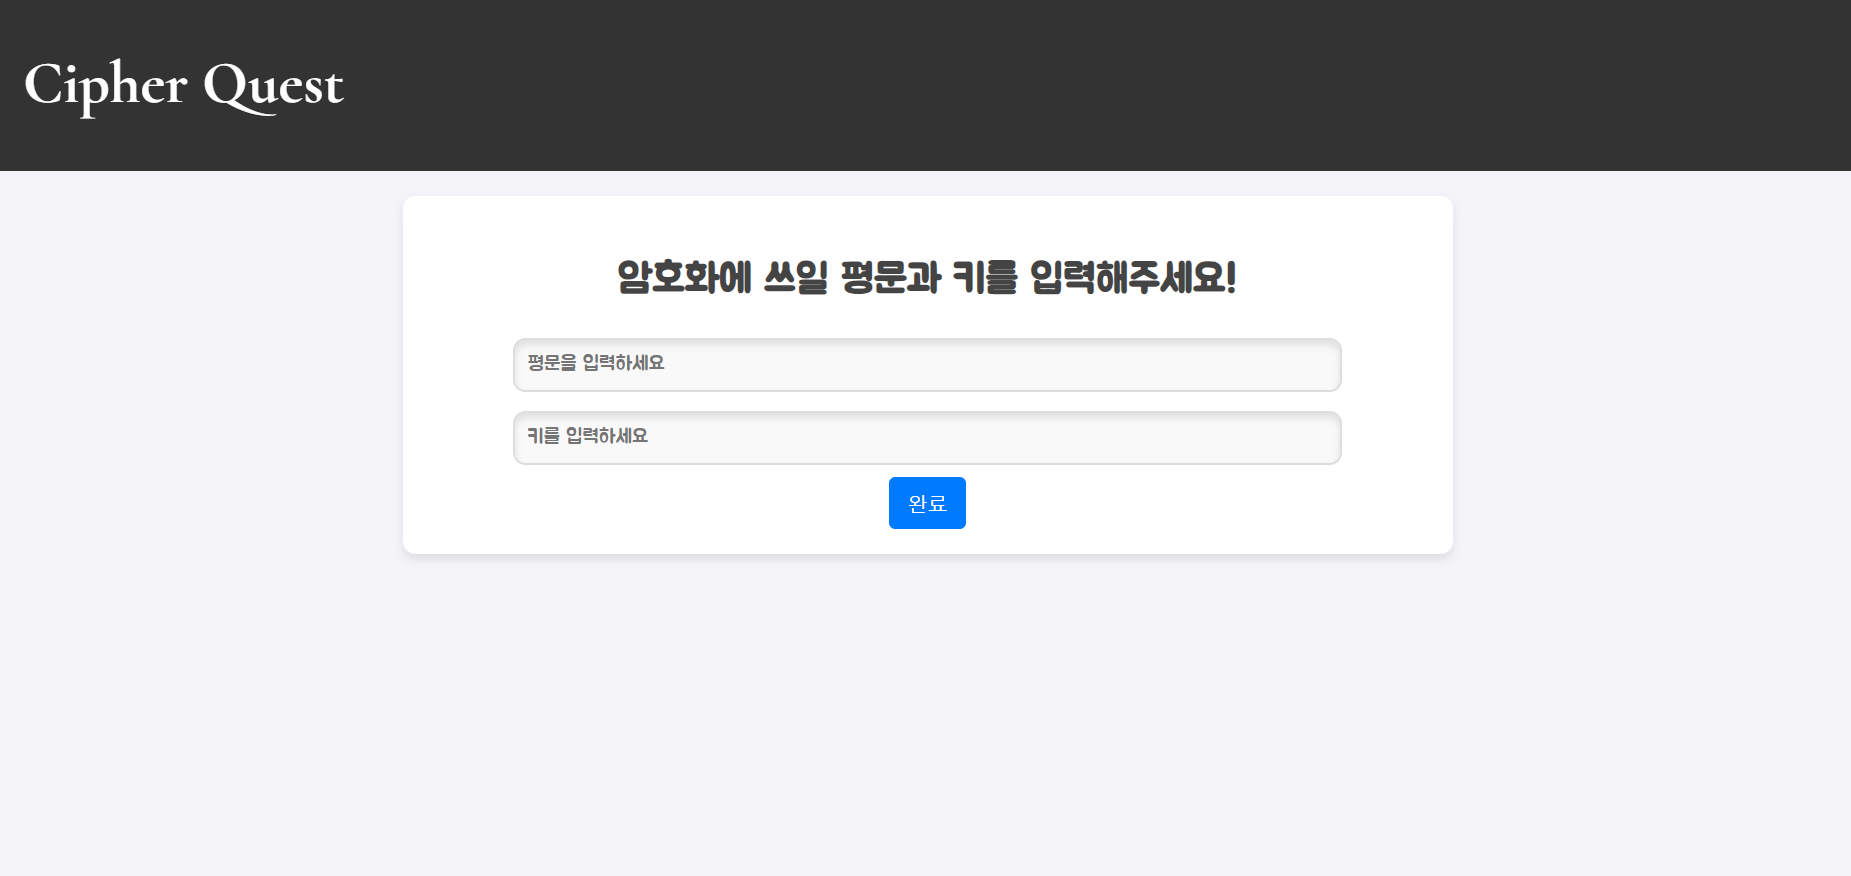
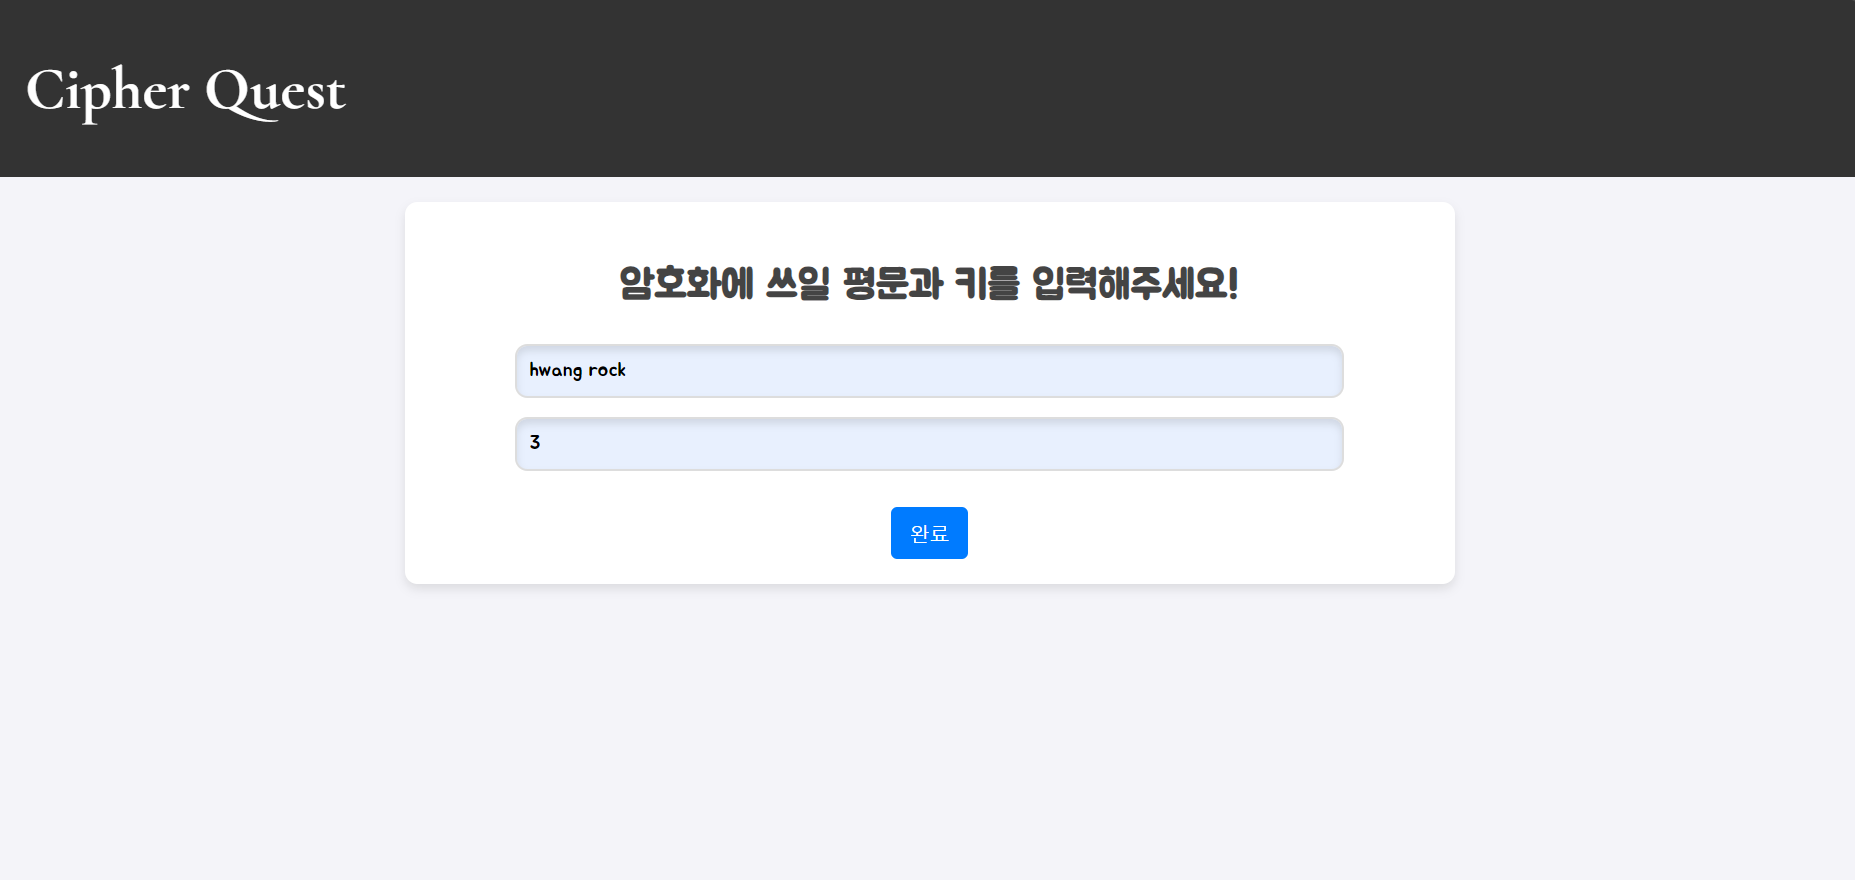
feat submit view

diff --git a/src/main/resources/templates/cipherquiz.html b/src/main/resources/templates/cipherquiz.html
@@ -8,7 +8,6 @@
     <link href="https://fonts.googleapis.com/css2?family=Jua&display=swap" rel="stylesheet">
     <link rel="stylesheet" href="/css/stage.css">
     <script>
-        // JavaScript로 stageId를 저장하고, 다음 화면으로 데이터를 전달
         function selectStage(stageId) {
             const stageContainer = document.getElementById("stage-container");
             const formContainer = document.getElementById("form-container");
@@ -19,44 +18,6 @@
 
             // 선택된 stageId를 hidden input에 저장
             document.getElementById("stage-id").value = stageId;
-        }
-
-        // 입력값을 DTO로 만들어 POST 요청 전송
-        async function submitData() {
-            const stageId = document.getElementById("stage-id").value;
-            const plainText = document.getElementById("plain-text").value;
-            const key = document.getElementById("key").value;
-
-            if (!plainText || !key) {
-                alert("평문과 키를 모두 입력해주세요!");
-                return;
-            }
-
-            // DTO 생성
-            const data = {
-                stageId: stageId,
-                submitPlainText: plainText,
-                key: key
-            };
-
-            try {
-                const response = await fetch("/create", {
-                    method: "POST",
-                    headers: {
-                        "Content-Type": "application/json"
-                    },
-                    body: JSON.stringify(data)
-                });
-
-                const result = await response.json();
-                if (response.ok) {
-                    alert("데이터가 성공적으로 저장되었습니다!");
-                } else {
-                    alert("오류 발생: " + result.error);
-                }
-            } catch (error) {
-                alert("네트워크 오류 발생: " + error.message);
-            }
         }
     </script>
 </head>
@@ -88,17 +49,20 @@
 <!-- 평문/키 입력 화면 -->
 <div id="form-container" class="stage-container" style="display: none;">
     <h2>암호화에 쓰일 평문과 키를 입력해주세요!</h2>
-    <form onsubmit="event.preventDefault(); submitData();">
-        <input type="hidden" id="stage-id">
+    <form th:action="@{/quiz}" method="get">
+        <!-- stageId를 hidden input에 저장 -->
+        <input type="hidden" id="stage-id" name="stageId">
 
         <label for="plain-text"></label>
-        <input type="text" id="plain-text" placeholder="평문을 입력하세요">
+        <input type="text" id="plain-text" name="plainText" placeholder="평문을 입력하세요" required>
 
         <label for="key"></label>
-        <input type="text" id="key" placeholder="키를 입력하세요">
-        <br>
+        <input type="text" id="key" name="key" placeholder="키를 입력하세요" required>
+
+        <br><br>
         <button type="submit">완료</button>
     </form>
 </div>
+
 </body>
 </html>

diff --git a/src/main/resources/templates/onquiz.html b/src/main/resources/templates/onquiz.html
@@ -1,0 +1,61 @@
+<!DOCTYPE html>
+<html lang="ko" xmlns:th="http://www.thymeleaf.org">
+<head>
+    <meta charset="UTF-8">
+    <meta name="viewport" content="width=device-width, initial-scale=1.0">
+    <title>퀴즈 진행</title>
+    <link href="https://fonts.googleapis.com/css2?family=Cormorant:ital,wght@0,300..700;1,300..700&display=swap" rel="stylesheet">
+    <link href="https://fonts.googleapis.com/css2?family=Jua&display=swap" rel="stylesheet">
+    <link rel="stylesheet" href="/css/onquiz.css">
+</head>
+<body>
+<div class="header">
+    <h1>Cipher Quest</h1>
+</div>
+
+<div class="quiz-container">
+    <h2>스테이지 진행 중...</h2>
+    <!-- 제한 시간 표시 -->
+    <div class="timer-display" id="timer">제한 시간: 60:00</div>
+    <!-- 암호문 표시 -->
+    <p id="cipher-text">암호문: <span th:text="${cipher}">암호문을 불러오는 중...</span></p>
+
+    <form th:action="@{/quiz/{stageId}/submit(stageId=${stageId})}" method="post">
+        <label for="submit-answer"></label>
+        <input type="text" id="submit-answer" name="submitAnswer" placeholder="해독 결과 입력해주세요!" required>
+        <button type="submit">제출</button>
+    </form>
+</div>
+
+<script>
+    // 제한 시간 카운트다운 (초 단위로 설정)
+    const totalSeconds = 3600; // 1시간 = 3600초
+    let remainingSeconds = totalSeconds;
+
+    function formatTime(seconds) {
+        const minutes = Math.floor(seconds / 60);
+        const secs = seconds % 60;
+        return `${minutes.toString().padStart(2, '0')}:${secs.toString().padStart(2, '0')}`;
+    }
+
+    function startTimer() {
+        const timerElement = document.getElementById("timer");
+        timerElement.innerText = `제한 시간: ${formatTime(remainingSeconds)}`;
+
+        const timerInterval = setInterval(() => {
+            remainingSeconds--;
+            timerElement.innerText = `제한 시간: ${formatTime(remainingSeconds)}`;
+
+            if (remainingSeconds <= 0) {
+                clearInterval(timerInterval);
+                alert("제한 시간이 종료되었습니다!");
+                timerElement.innerText = "제한 시간: 00:00";
+            }
+        }, 1000);
+    }
+
+    // 타이머 시작
+    window.onload = startTimer;
+</script>
+</body>
+</html>

diff --git a/src/main/resources/static/css/onquiz.css b/src/main/resources/static/css/onquiz.css
@@ -1,0 +1,107 @@
+body {
+    font-family: 'Cormorant', serif;
+    margin: 0;
+    padding: 0;
+    background-color: #f4f4f9;
+}
+
+.header {
+    background-color: #333;
+    color: #fff;
+    text-align: left;
+    padding: 10px 20px;
+    font-size: 24px;
+    position: sticky;
+    top: 0;
+}
+
+.quiz-container {
+    margin: 20px auto;
+    padding: 20px;
+    width: 90%;
+    max-width: 600px;
+    background-color: #ffffff;
+    box-shadow: 0 4px 8px rgba(0, 0, 0, 0.1);
+    border-radius: 10px;
+    text-align: center;
+}
+
+.quiz-container h2 {
+    font-size: 28px;
+    color: #444;
+    font-family: 'Jua', sans-serif;
+    margin-bottom: 10px;
+}
+
+.quiz-container p {
+    font-size: 18px;
+    color: #666;
+    font-family: 'Jua', sans-serif;
+    margin-bottom: 20px;
+}
+
+.label {
+    font-family: 'Jua', sans-serif; /* 폰트 수정 */
+    font-size: 18px;
+    color: #444;
+    display: block;
+    margin-bottom: 10px;
+}
+
+.cipher-display {
+    background-color: #f9f9f9;
+    padding: 15px;
+    border: 2px solid #ddd;
+    border-radius: 10px;
+    font-size: 20px;
+    font-family: 'Cormorant', serif;
+    margin-bottom: 20px;
+    color: #333;
+}
+
+.timer-display {
+    font-size: 22px;
+    font-weight: bold;
+    color: #ff4500;
+    margin-bottom: 20px;
+    font-family: 'Jua', sans-serif;
+}
+
+input[type="text"] {
+    width: 80%;
+    padding: 10px;
+    font-size: 16px;
+    font-family: 'Jua', sans-serif;
+    border: 2px solid #ddd;
+    border-radius: 5px;
+    box-shadow: inset 0 4px 6px rgba(0, 0, 0, 0.1);
+    outline: none;
+    transition: all 0.3s ease;
+    margin-bottom: 10px;
+}
+
+input[type="text"]:focus {
+    border-color: #007bff;
+    box-shadow: 0 0 8px rgba(0, 123, 255, 0.6);
+}
+
+button {
+    padding: 10px 15px;
+    font-size: 16px;
+    background-color: #007bff;
+    color: white;
+    border: none;
+    border-radius: 5px;
+    cursor: pointer;
+    transition: background-color 0.3s ease, transform 0.2s ease;
+}
+
+button:hover {
+    background-color: #0056b3;
+    transform: translateY(-3px);
+}
+
+button:active {
+    background-color: #003f8a;
+    transform: translateY(0);
+}

diff --git a/src/main/java/com/example/cipherquest/controller/PageController.java b/src/main/java/com/example/cipherquest/controller/PageController.java
@@ -1,10 +1,19 @@
 package com.example.cipherquest.controller;
 
+import com.example.cipherquest.service.EncryptService;
 import org.springframework.stereotype.Controller;
+import org.springframework.ui.Model;
 import org.springframework.web.bind.annotation.GetMapping;
+import org.springframework.web.bind.annotation.RequestParam;
+import org.springframework.web.servlet.mvc.support.RedirectAttributes;
 
 @Controller
 public class PageController {
+    private EncryptService encryptService;
+    public PageController(EncryptService encryptService) {
+        this.encryptService = encryptService;
+    }
+
     @GetMapping("/")
     public String homePage() {
         return "index";
@@ -23,6 +32,34 @@ public class PageController {
     @GetMapping("/studycipher")
     public String studyCipherPage() {
         return "studycipher";
+    }
+
+    @GetMapping("/quiz")
+    public String quizPage(
+            @RequestParam("stageId") String stageId,
+            @RequestParam("plainText") String plainText,
+            @RequestParam("key") String key,
+            RedirectAttributes redirectAttributes) {
+        // 암호화 로직 처리
+        String encrypted = encryptService.Encrypt(stageId, plainText, key);
+
+        // URL에 파라미터로 추가
+        redirectAttributes.addAttribute("stageId", stageId);
+        redirectAttributes.addAttribute("cipher", encrypted);
+
+        return "redirect:/quiz/display";
+    }
+
+    @GetMapping("/quiz/display")
+    public String displayQuizPage(
+            @RequestParam("stageId") String stageId,
+            @RequestParam("cipher") String cipher,
+            Model model) {
+        // 모델에 데이터 추가
+        model.addAttribute("stageId", stageId);
+        model.addAttribute("cipher", cipher);
+
+        return "onquiz";
     }
 }
 

diff --git a/src/main/java/com/example/cipherquest/service/EncryptService.java b/src/main/java/com/example/cipherquest/service/EncryptService.java
@@ -20,7 +20,8 @@ public class EncryptService {
     public String Encrypt(String id, String text, String key) {
         EncryptStrategy strategy = strategyMap.get(id);
         if (strategy == null) {
-            log.error("strategy is null");
+            log.error("strategy is null for id: {}", id);
+            throw new IllegalArgumentException("암호화 전략을 찾을 수 없습니다: " + id);
         }
         return strategy.encrypt(text, key);
     }
